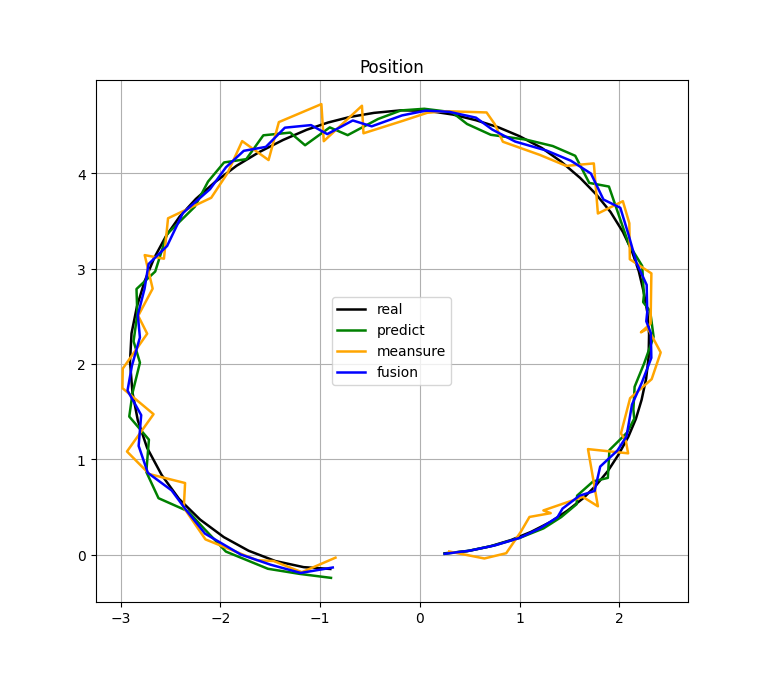
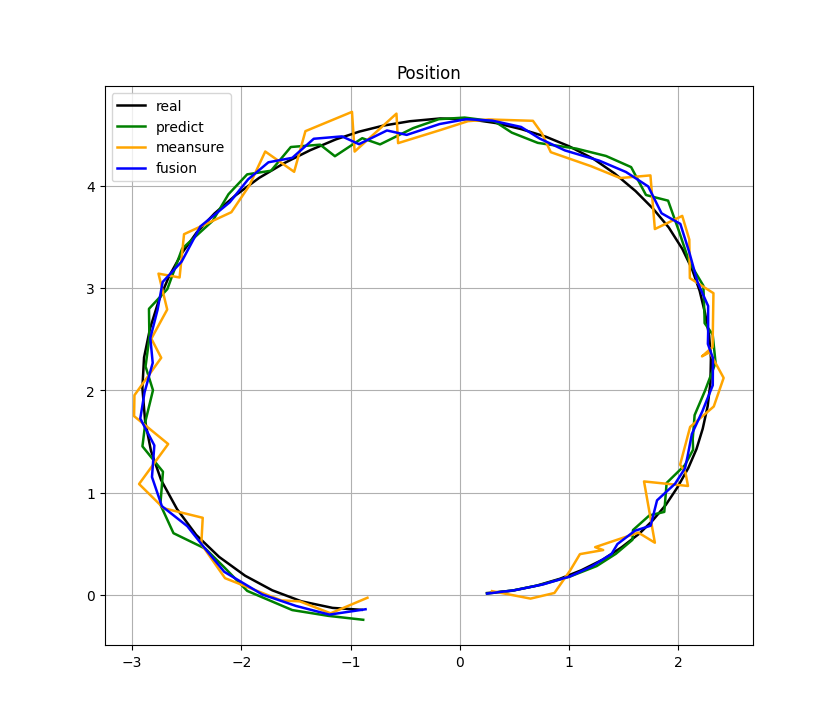
算法

diff --git a/无迹卡尔曼滤波/ukf.cpp b/无迹卡尔曼滤波/ukf.cpp
@@ -75,8 +75,8 @@ tuple<X_type, Trans_Noise_type, X_type> UnscentedKalmanFilter(
     ut_w(dims, w);
     Matrix<float, predict_x_noise_mean.rows(), samples_nums> Sigma_x;
     Matrix<float, predict_x2z_mean.rows(), samples_nums> Sigma_z;
-    // Sigma_x = predict_x_noise_ut_sample_mat.colwise() - predict_x_noise_mean;
-    Sigma_x = predict_x_mat.colwise() - predict_x_noise_mean;
+    Sigma_x = predict_x_noise_ut_sample_mat.colwise() - predict_x_noise_mean;
+    // Sigma_x = predict_x_mat.colwise() - predict_x_noise_mean;
     Sigma_z = predict_x2z_mat.colwise() - predict_x2z_mean;
     Matrix<float, predict_x_noise_mean.rows(), predict_x2z_mean.rows()> Sigma;
     Sigma.setZero();
@@ -130,7 +130,6 @@ void run(){
         0, 0, 0, 0.00001, 0,
         0, 0, 0, 0, 0.0005
     ;
-
     
     mat2x5f H;
     H <<

diff --git a/无迹卡尔曼滤波/ut.cpp b/无迹卡尔曼滤波/ut.cpp
@@ -12,7 +12,7 @@ using namespace std;
 using namespace Eigen;
 
 
-float UT_lambda = 3;        // 调节个样本点权重
+float UT_lambda = 1;        // 调节个样本点权重
 
 
 // sigma点
